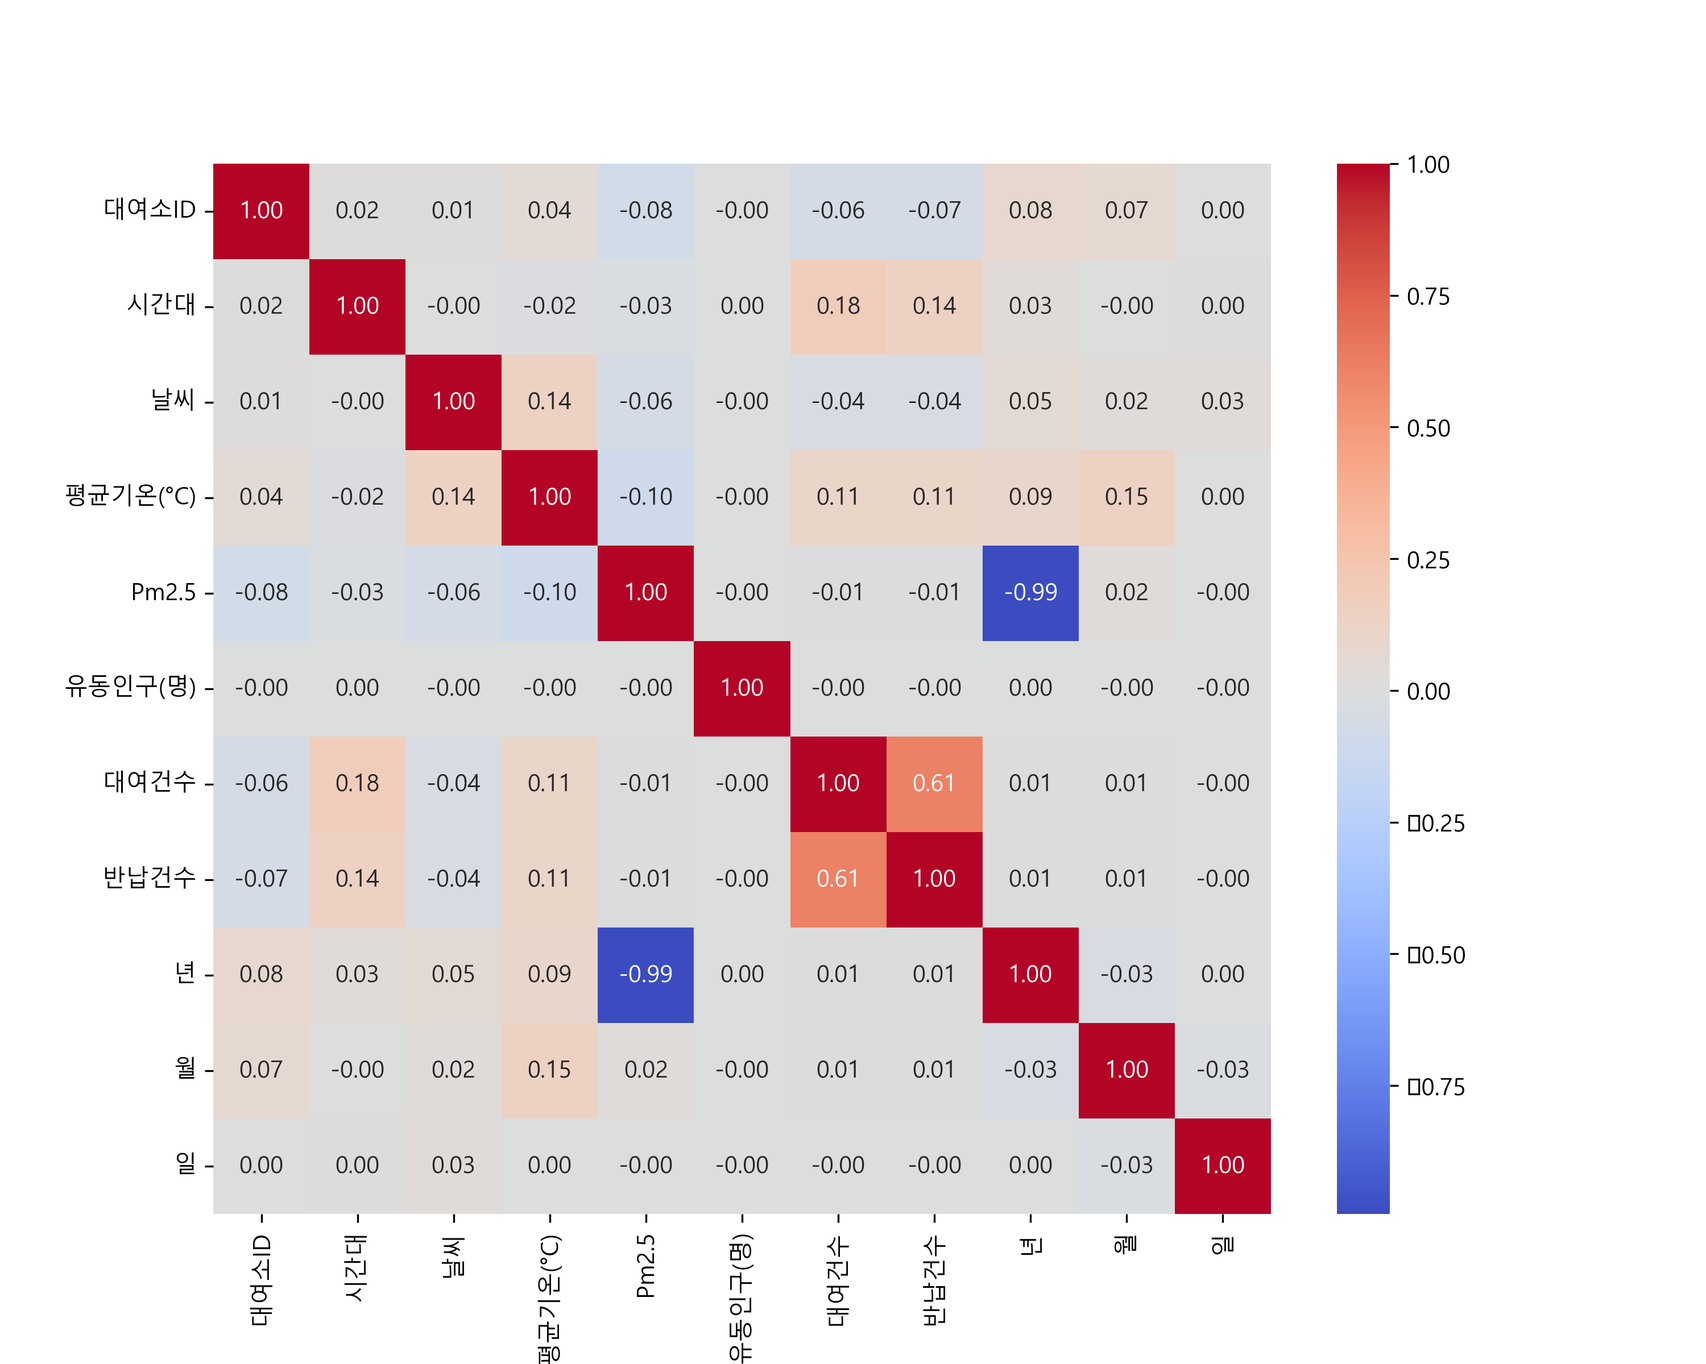
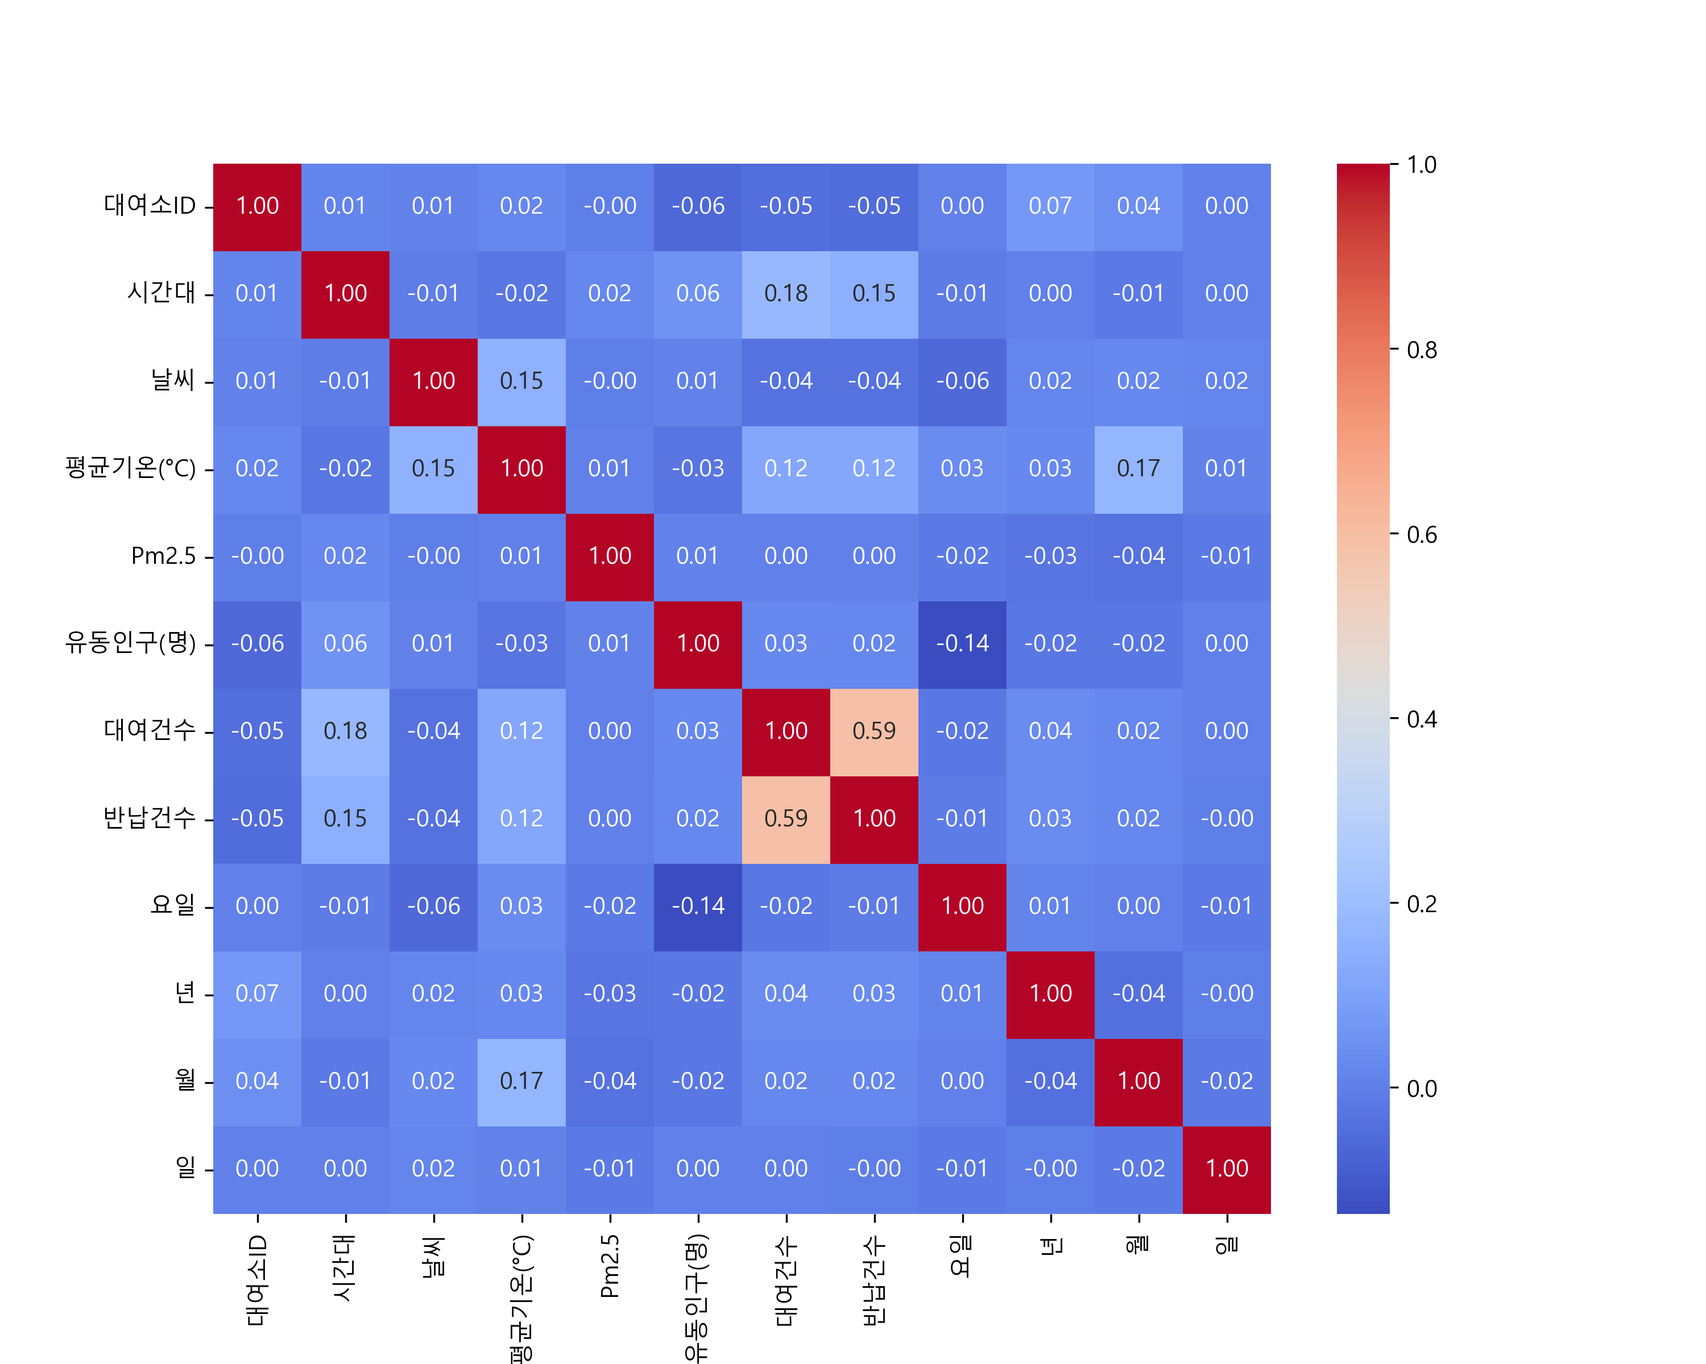
주성분 분석, 요일 칼럼 추가, 시각화(년도, 월, 일, 요일 별)

diff --git a/backend/django/data_analysis/pca.py b/backend/django/data_analysis/pca.py
@@ -1,0 +1,64 @@
+from sklearn.decomposition import PCA
+from sklearn.preprocessing import StandardScaler
+import pandas as pd
+
+# 데이터셋을 로드합니다.
+data_2020 = pd.read_csv('backend/django/data_analysis/data/datafile/real_final_2020.csv')
+data_2021 = pd.read_csv('backend/django/data_analysis/data/datafile/real_final_2021.csv')
+data_2022 = pd.read_csv('backend/django/data_analysis/data/datafile/real_final_2022.csv')
+df = pd.concat([data_2020, data_2021, data_2022], axis=0)
+
+# PCA에 사용할 수치형 특성들을 선택합니다.
+features = ['시간대', '날씨','평균기온(°C)','Pm2.5','유동인구(명)','요일','년','월', '일']
+# 특성들을 분리합니다.
+x = df.loc[:, features].values
+
+# PCA를 수행합니다.
+pca = PCA(n_components=2)  # 시각화를 위해 2개의 주성분으로 축소합니다.
+principal_components = pca.fit_transform(x)
+
+# 주성분으로 이루어진 데이터프레임을 생성합니다.
+principal_df = pd.DataFrame(data=principal_components)
+
+# 설명된 분산 비율을 확인합니다.
+explained_variance = pca.explained_variance_ratio_
+
+print(principal_df.head())
+print(explained_variance)
+
+# 주성분의 원래 특성들에 대한 가중치 확인
+components = pca.components_
+
+# 각 주성분에 대한 가중치와 원래 특성 이름을 함께 출력
+for i, (component, variance) in enumerate(zip(components, explained_variance)):
+    component_details = dict(zip(features, component))
+    print(f"주성분 {i+1}: 설명된 분산 = {variance:.2f}, 가중치: {component_details}")
+
+# 주성분 분석의 목적 : 변수의 개수를 줄이는 것, 즉 자료의 차원축약
+
+# 해석 
+# 주성분 1: 설명된 분산이 거의 1.00으로, 이 주성분이 데이터 변동성의 대부분을 포착합니다. 
+# 가장 큰 가중치를 가진 특성은 '유동인구(명)'으로, 거의 모든 변동성이 이 변수에 의해 설명됩니다. 
+# 이는 '유동인구(명)'이 데이터 세트에서 가장 중요한 변동 요인이라는 것을 의미합니다. 
+# 다른 모든 특성들의 가중치는 매우 작아서 이 주성분에서는 거의 영향을 미치지 않습니다.
+
+# 주성분 2: 설명된 분산이 0에 가깝고, 가장 큰 가중치를 가진 특성은 'Pm2.5'입니다. 
+# 그러나 이 주성분의 분산 설명력이 매우 낮기 때문에 이 주성분은 데이터의 변동성을 거의 설명하지 않는 것으로 보입니다. 
+# '월'과 '일', 그리고 '요일'의 가중치도 상대적으로 높지만, 전체적인 데이터 변동성에서 차지하는 비중은 미미할 것으로 예상됩니다.
+
+# 이 분석에서 주목할 점은 첫 번째 주성분이 데이터 변동성의 대부분을 설명하고 있으며, '유동인구(명)'이 이 주성분의 구성에 결정적인 역할을 한다는 것입니다. 
+# 두 번째 주성분은 추가적인 변동성을 거의 설명하지 못하기 때문에, 데이터를 잘 설명하는 데에는 크게 기여하지 않는 것으로 보입니다.
+
+# 설명된 분산(Explained Variance)은 주성분 분석(PCA)에서 각 주성분이 원본 데이터에서 얼마나 많은 정보(변동성)를 포착하고 있는지를 나타내는 지표입니다. 
+# 데이터의 분산은 데이터가 얼마나 퍼져 있는지를 나타내는 척도이며, PCA에서는 이 분산을 최대한 보존하면서 차원을 축소합니다.
+
+# 주성분 1의 설명된 분산은 첫 번째 주성분이 데이터 전체 분산 중 얼마나 많은 부분을 설명하는지를 나타냅니다. 
+# 만약 이 값이 1에 가까우면, 첫 번째 주성분 하나로 데이터의 대부분의 변동성을 설명할 수 있다는 의미이며, 
+# 이는 데이터의 대부분이 그 주성분에 의해 설명될 수 있음을 의미합니다.
+
+# 주성분 2의 설명된 분산은 두 번째 주성분이 추가로 얼마나 많은 데이터 변동성을 설명하는지를 나타냅니다. 
+# 이 값이 매우 낮다면, 두 번째 주성분이 추가하는 정보는 매우 적다는 것을 의미합니다.
+
+# 설명된 분산의 합은 모델이 데이터의 전체 변동성 중 얼마나 많은 부분을 포착할 수 있는지를 나타냅니다. 
+# 일반적으로, 몇 개의 주성분으로도 대부분의 분산을 설명할 수 있다면, 
+# 그 데이터는 높은 차원에서 낮은 차원으로 효과적으로 축소될 수 있다고 볼 수 있습니다.

diff --git a/backend/django/data_analysis/visualize_before_made_model.py b/backend/django/data_analysis/visualize_before_made_model.py
@@ -6,8 +6,8 @@ plt.rc('font', family='malgun gothic')
 # 상관계수 확인
 train_2020 = pd.read_csv('backend/django/data_analysis/data/datafile/real_final_2020.csv')
 train_2021 = pd.read_csv('backend/django/data_analysis/data/datafile/real_final_2021.csv')
-
-train_data = pd.concat([train_2020, train_2021], axis=0)
+train_2022 = pd.read_csv('backend/django/data_analysis/data/datafile/real_final_2022.csv')
+train_data = pd.concat([train_2020, train_2021, train_2022], axis=0)
 train_data['유동인구(명)'] = train_data['유동인구(명)'].astype(int)
 train_data['대여소ID'] = train_data['대여소ID'].str[3:].astype(int)
 
@@ -35,6 +35,72 @@ plt.xticks(range(24))
 plt.legend(title='Type')
 plt.savefig('backend\django\data_analysis\_visualization\시간대별_대여반납건수_그래프.png')
 plt.show()
+
+# 요일 별 대여건수, 반납건수 시각화
+grouped_data = train_data.groupby('요일').agg({'대여건수':'sum', '반납건수':'sum'}).reset_index()
+
+melted_data = pd.melt(grouped_data, id_vars='요일', var_name='Type', value_name='Count')
+
+plt.figure(figsize=(15, 8))
+barplot = sns.barplot(x='요일', y='Count', hue='Type', data=melted_data, palette=['skyblue', 'pink'])
+
+plt.title('요일별 대여건수 및 반납건수')
+plt.xlabel('요일')
+plt.ylabel('건수')
+plt.xticks(range(7)) 
+plt.legend(title='Type')
+plt.savefig('backend\django\data_analysis\_visualization\요일별_대여반납건수_그래프.png')
+plt.show()
+
+
+# 일 별 대여건수, 반납건수 시각화
+grouped_data = train_data.groupby('일').agg({'대여건수':'sum', '반납건수':'sum'}).reset_index()
+
+melted_data = pd.melt(grouped_data, id_vars='일', var_name='Type', value_name='Count')
+
+plt.figure(figsize=(15, 8))
+barplot = sns.barplot(x='일', y='Count', hue='Type', data=melted_data, palette=['skyblue', 'pink'])
+
+plt.title('일별 대여건수 및 반납건수')
+plt.xlabel('일')
+plt.ylabel('건수')
+plt.xticks(range(31)) 
+plt.legend(title='Type')
+plt.savefig('backend\django\data_analysis\_visualization\일별_대여반납건수_그래프.png')
+plt.show()
+
+# 월 별 대여건수, 반납건수 시각화
+grouped_data = train_data.groupby('월').agg({'대여건수':'sum', '반납건수':'sum'}).reset_index()
+
+melted_data = pd.melt(grouped_data, id_vars='월', var_name='Type', value_name='Count')
+
+plt.figure(figsize=(15, 8))
+barplot = sns.barplot(x='월', y='Count', hue='Type', data=melted_data, palette=['skyblue', 'pink'])
+
+plt.title('월별 대여건수 및 반납건수')
+plt.xlabel('월')
+plt.ylabel('건수')
+plt.xticks(range(12)) 
+plt.legend(title='Type')
+plt.savefig('backend\django\data_analysis\_visualization\월별_대여반납건수_그래프.png')
+plt.show()
+
+# 년 별 대여건수, 반납건수 시각화
+grouped_data = train_data.groupby('년').agg({'대여건수':'sum', '반납건수':'sum'}).reset_index()
+
+melted_data = pd.melt(grouped_data, id_vars='년', var_name='Type', value_name='Count')
+
+plt.figure(figsize=(15, 8))
+barplot = sns.barplot(x='년', y='Count', hue='Type', data=melted_data, palette=['skyblue', 'pink'])
+
+plt.title('년별 대여건수 및 반납건수')
+plt.xlabel('년')
+plt.ylabel('건수')
+plt.xticks(range(3)) 
+plt.legend(title='Type')
+plt.savefig('backend\django\data_analysis\_visualization\년별_대여반납건수_그래프.png')
+plt.show()
+
 
 
 # 왜도, 첨도, 분산 계산

diff --git a/backend/django/data_analysis/model_legacy_xgboost_bystation.py b/backend/django/data_analysis/model_legacy_xgboost_bystation.py
@@ -3,18 +3,13 @@ import xgboost as xgb
 from sklearn.model_selection import train_test_split
 from sklearn.metrics import r2_score, mean_squared_error, explained_variance_score, mean_absolute_error
 import matplotlib.pyplot as plt
-print('---------------------11111')
 
 # 데이터 준비
-data_2020 = pd.read_csv('backend/django/data_analysis/data/datafile/real_final_2020.csv')
-data_2021 = pd.read_csv('backend/django/data_analysis/data/datafile/real_final_2021.csv')
-data_2022 = pd.read_csv('backend/django/data_analysis/data/datafile/real_final_2022.csv')
-data = pd.concat([data_2020, data_2021, data_2022], axis=0)
-print('--------------------222222')
+data = pd.read_csv('backend\django\data_analysis\data\datafile\대여소별정제데이터.csv')
 
 # 데이터 정제
 data['유동인구(명)'] = data['유동인구(명)'].astype(int)
-data['대여소ID'] = data['대여소ID'].str[3:].astype(int)
+data = data.drop('대여소ID', axis=1)
 
 # 독립변수 및 종속변수 설정
 columns_to_keep = [col for col in data.columns if col not in ['대여건수', '반납건수']]
@@ -31,7 +26,7 @@ xgb_model_rent = xgb.XGBRegressor()
 xgb_model_return = xgb.XGBRegressor()
 xgb_model_rent.fit(X_train, y1_train)
 xgb_model_return.fit(X_train, y2_train)
-print('--------------------333333333')
+
 # 모델 학습 및 평가
 def evaluate_model(model, X_test, y_test):
     y_pred = model.predict(X_test)
@@ -43,7 +38,7 @@ def evaluate_model(model, X_test, y_test):
 # XGBoost 모델 평가
 xgb_rent_metrics = evaluate_model(xgb_model_rent, X_test, y1_test)
 xgb_return_metrics = evaluate_model(xgb_model_return, X_test, y2_test)
-print('--------------------444444444')
+
 # 결과 출력
 print("XGBoost Rent Metrics:")
 print("R2 Score:", xgb_rent_metrics[0])
@@ -55,18 +50,18 @@ print("R2 Score:", xgb_return_metrics[0])
 print("Mean Squared Error:", xgb_return_metrics[1])
 print("Mean Absolute Error:", xgb_return_metrics[2])
 
-# 피쳐 중요도 시각화
-def plot_feature_importance(model, columns, title):
-    feature_importance = model.feature_importances_
-    sorted_idx = feature_importance.argsort()
-    plt.figure(figsize=(10, 6))
-    plt.barh(range(len(sorted_idx)), feature_importance[sorted_idx], align='center')
-    plt.yticks(range(len(sorted_idx)), [columns[i] for i in sorted_idx])
-    plt.title(title)
-    plt.xlabel('Feature Importance')
-    plt.ylabel('Feature')
-    plt.show()
+# # 피쳐 중요도 시각화
+# def plot_feature_importance(model, columns, title):
+#     feature_importance = model.feature_importances_
+#     sorted_idx = feature_importance.argsort()
+#     plt.figure(figsize=(10, 6))
+#     plt.barh(range(len(sorted_idx)), feature_importance[sorted_idx], align='center')
+#     plt.yticks(range(len(sorted_idx)), [columns[i] for i in sorted_idx])
+#     plt.title(title)
+#     plt.xlabel('Feature Importance')
+#     plt.ylabel('Feature')
+#     plt.show()
 
-# 피쳐 중요도 시각화 실행
-plot_feature_importance(xgb_model_rent, X_train.columns, "Feature Importance for Bike Renting")
-plot_feature_importance(xgb_model_return, X_train.columns, "Feature Importance for Bike Returning")
+# # 피쳐 중요도 시각화 실행
+# plot_feature_importance(xgb_model_rent, X_train.columns, "Feature Importance for Bike Renting")
+# plot_feature_importance(xgb_model_return, X_train.columns, "Feature Importance for Bike Returning")

diff --git a/backend/django/data_analysis/data/cleansing_대여소별.py b/backend/django/data_analysis/data/cleansing_대여소별.py
@@ -1,0 +1,50 @@
+import pandas as pd 
+import matplotlib.pyplot as plt
+import seaborn as sns
+plt.rc('font', family='malgun gothic')
+
+data_2020 = pd.read_csv('backend/django/data_analysis/data/datafile/df_final_final2020_.csv')
+data_2021 = pd.read_csv('backend/django/data_analysis/data/datafile/df_final_final2021_.csv')
+data_2022 = pd.read_csv('backend/django/data_analysis/data/datafile/df_final_final2022_.csv')
+data = pd.concat([data_2020, data_2021, data_2022], axis=0)
+
+# 특정 대여소만 하나 뽑아 보겠음
+data['대여소ID'] = data['대여소ID'].str[3:].astype(int)
+data = data[data['대여소ID'] == 1181]
+
+# '날짜' 열을 년, 월, 일로 분리 -> 이렇게 하니까 정확도가 더 높게 나옴
+data['날짜'] = pd.to_datetime(data['날짜'], format='%Y-%m-%d')
+data['년'] = data['날짜'].dt.year
+data['월'] = data['날짜'].dt.month
+data['일'] = data['날짜'].dt.day
+# 요일 행 추가 : 월요일 0 ~ 일요일 6
+data['날짜'] = pd.to_datetime(data['날짜'])
+data['요일'] = data['날짜'].dt.dayofweek
+data.drop('날짜', axis=1, inplace=True)
+
+# 대여소ID와 대여소명은 겹치는 값이기 때문에 대여소ID만 남기기 
+data = data.drop('대여소명', axis=1)
+
+# 날씨 비옴:1, 비안옴:0으로 대체
+data['날씨'] = data['날씨'].apply(lambda x: 1 if x == '비옴' else 0)
+
+# 유동인구에 결측치 제거
+nan_in_population = data['유동인구(명)'].isnull().any()
+if nan_in_population:
+    data['유동인구(명)'] = data.groupby(['시간대','대여소ID'])['유동인구(명)'].transform(lambda x: x.fillna(x.mean()))
+    if data['유동인구(명)'].isnull().any():
+        data['유동인구(명)'].fillna(data['유동인구(명)'].mean(), inplace=True)
+# 결과 확인
+print('유동인구(명)에 NaN 값이 있었는가?', nan_in_population)
+print('대체 후 유동인구(명)에 NaN 값이 있는가?', data['유동인구(명)'].isnull().any())
+
+# data.to_csv('backend/django/data_analysis/data/datafile/대여소별정제데이터.csv', index=False, encoding='utf-8')
+
+corr = data.corr()
+# corr.to_csv('backend\django\data_analysis\_visualization\상관계수.csv', encoding='utf-8-sig')
+
+# 히트맵 
+plt.figure(figsize=(10, 8))
+sns.heatmap(corr, annot=True, fmt=".2f", cmap='coolwarm')
+plt.savefig('backend\django\data_analysis\_visualization\상관계수_히트맵_대여소별2.png', dpi=300)
+plt.show()

diff --git a/backend/django/data_analysis/data/final_cleansing_2020.py b/backend/django/data_analysis/data/final_cleansing_2020.py
@@ -15,12 +15,16 @@ train_data = pd.read_csv('backend\django\data_analysis\data\datafile\df_final_fi
 # train_data['대여소명'] = train_data['대여소명'].cat.codes
 # print(train_data.head(3))
 
+# 요일 행 추가 : 월요일 0 ~ 일요일 6
+train_data['날짜'] = pd.to_datetime(train_data['날짜'])
+train_data['요일'] = train_data['날짜'].dt.dayofweek
 # '날짜' 열을 년, 월, 일로 분리 -> 이렇게 하니까 정확도가 더 높게 나옴
 train_data['날짜'] = pd.to_datetime(train_data['날짜'], format='%Y-%m-%d')
 train_data['년'] = train_data['날짜'].dt.year
 train_data['월'] = train_data['날짜'].dt.month
 train_data['일'] = train_data['날짜'].dt.day
 train_data.drop('날짜', axis=1, inplace=True)
+
 
 # 대여소ID와 대여소명은 겹치는 값이기 때문에 대여소ID만 남기기 
 train_data = train_data.drop('대여소명', axis=1)
@@ -39,10 +43,10 @@ print('유동인구(명)에 NaN 값이 있었는가?', nan_in_population)
 print('대체 후 유동인구(명)에 NaN 값이 있는가?', train_data['유동인구(명)'].isnull().any())
 
 # ['평균기온(°C)', 'Pm2.5', '유동인구(명)']만 정규화
-from sklearn.preprocessing import MinMaxScaler
-scaler = MinMaxScaler()
-columns_to_normalize = ['평균기온(°C)', 'Pm2.5', '유동인구(명)']
-train_data[columns_to_normalize] = scaler.fit_transform(train_data[columns_to_normalize])
-print(train_data.head(3))
+# from sklearn.preprocessing import MinMaxScaler
+# scaler = MinMaxScaler()
+# columns_to_normalize = ['평균기온(°C)', 'Pm2.5', '유동인구(명)']
+# train_data[columns_to_normalize] = scaler.fit_transform(train_data[columns_to_normalize])
+# print(train_data.head(3))
 
 train_data.to_csv('backend/django/data_analysis/data/datafile/real_final_2020.csv', index=False, encoding='utf-8')

diff --git a/backend/django/data_analysis/data/final_cleansing_2021.py b/backend/django/data_analysis/data/final_cleansing_2021.py
@@ -15,12 +15,16 @@ train_data = pd.read_csv('backend\django\data_analysis\data\datafile\df_final_fi
 # train_data['대여소명'] = train_data['대여소명'].cat.codes
 # print(train_data.head(3))
 
+# 요일 행 추가 : 월요일 0 ~ 일요일 6
+train_data['날짜'] = pd.to_datetime(train_data['날짜'])
+train_data['요일'] = train_data['날짜'].dt.dayofweek
 # '날짜' 열을 년, 월, 일로 분리 -> 이렇게 하니까 정확도가 더 높게 나옴
 train_data['날짜'] = pd.to_datetime(train_data['날짜'], format='%Y-%m-%d')
 train_data['년'] = train_data['날짜'].dt.year
 train_data['월'] = train_data['날짜'].dt.month
 train_data['일'] = train_data['날짜'].dt.day
 train_data.drop('날짜', axis=1, inplace=True)
+
 
 # 대여소ID와 대여소명은 겹치는 값이기 때문에 대여소ID만 남기기 
 train_data = train_data.drop('대여소명', axis=1)
@@ -39,10 +43,10 @@ print('유동인구(명)에 NaN 값이 있었는가?', nan_in_population)
 print('대체 후 유동인구(명)에 NaN 값이 있는가?', train_data['유동인구(명)'].isnull().any())
 
 # ['평균기온(°C)', 'Pm2.5', '유동인구(명)']만 정규화
-from sklearn.preprocessing import MinMaxScaler
-scaler = MinMaxScaler()
-columns_to_normalize = ['평균기온(°C)', 'Pm2.5', '유동인구(명)']
-train_data[columns_to_normalize] = scaler.fit_transform(train_data[columns_to_normalize])
-print(train_data.head(3))
+# from sklearn.preprocessing import MinMaxScaler
+# scaler = MinMaxScaler()
+# columns_to_normalize = ['평균기온(°C)', 'Pm2.5', '유동인구(명)']
+# train_data[columns_to_normalize] = scaler.fit_transform(train_data[columns_to_normalize])
+# print(train_data.head(3))
 
 train_data.to_csv('backend/django/data_analysis/data/datafile/real_final_2021.csv', index=False, encoding='utf-8')

diff --git a/backend/django/data_analysis/data/final_cleansing_2022.py b/backend/django/data_analysis/data/final_cleansing_2022.py
@@ -15,6 +15,9 @@ test_data = pd.read_csv('backend\django\data_analysis\data\datafile\df_final_fin
 # train_data['대여소명'] = train_data['대여소명'].cat.codes
 # print(train_data.head(3))
 
+# 요일 행 추가 : 월요일 0 ~ 일요일 6
+test_data['날짜'] = pd.to_datetime(test_data['날짜'])
+test_data['요일'] = test_data['날짜'].dt.dayofweek
 # '날짜' 열을 년, 월, 일로 분리 -> 이렇게 하니까 정확도가 더 높게 나옴
 test_data['날짜'] = pd.to_datetime(test_data['날짜'], format='%Y-%m-%d')
 test_data['년'] = test_data['날짜'].dt.year
@@ -39,10 +42,10 @@ print('유동인구(명)에 NaN 값이 있었는가?', nan_in_population)
 print('대체 후 유동인구(명)에 NaN 값이 있는가?', test_data['유동인구(명)'].isnull().any())
 
 # ['평균기온(°C)', 'Pm2.5', '유동인구(명)']만 정규화
-from sklearn.preprocessing import MinMaxScaler
-scaler = MinMaxScaler()
-columns_to_normalize = ['평균기온(°C)', 'Pm2.5', '유동인구(명)']
-test_data[columns_to_normalize] = scaler.fit_transform(test_data[columns_to_normalize])
-print(test_data.head(3))
+# from sklearn.preprocessing import MinMaxScaler
+# scaler = MinMaxScaler()
+# columns_to_normalize = ['평균기온(°C)', 'Pm2.5', '유동인구(명)']
+# test_data[columns_to_normalize] = scaler.fit_transform(test_data[columns_to_normalize])
+# print(test_data.head(3))
 
 test_data.to_csv('backend/django/data_analysis/data/datafile/real_final_2022.csv', index=False, encoding='utf-8')
